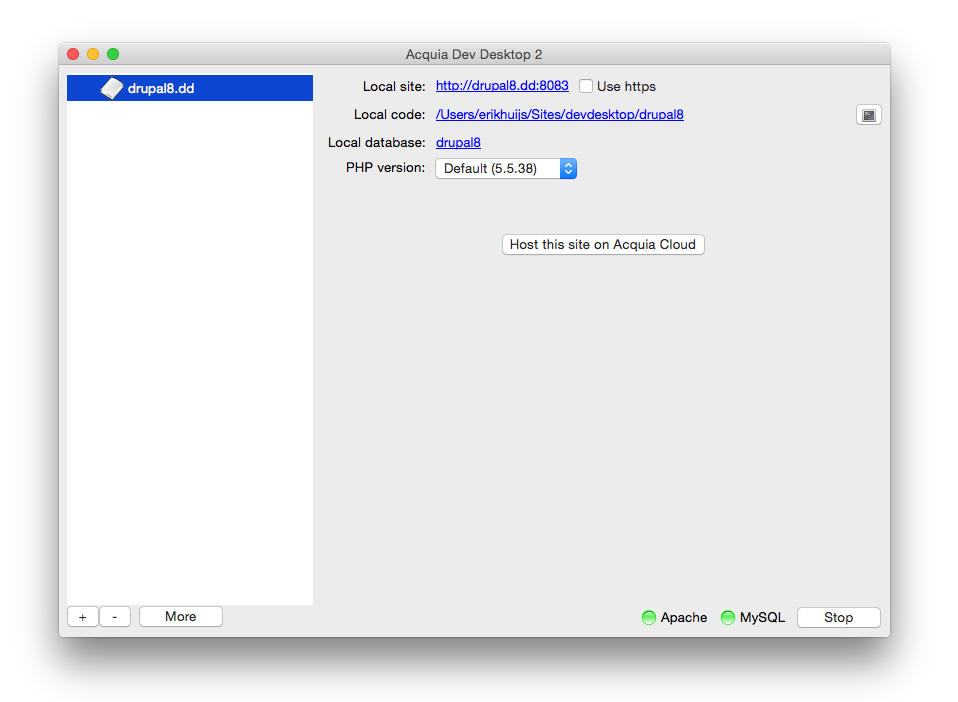
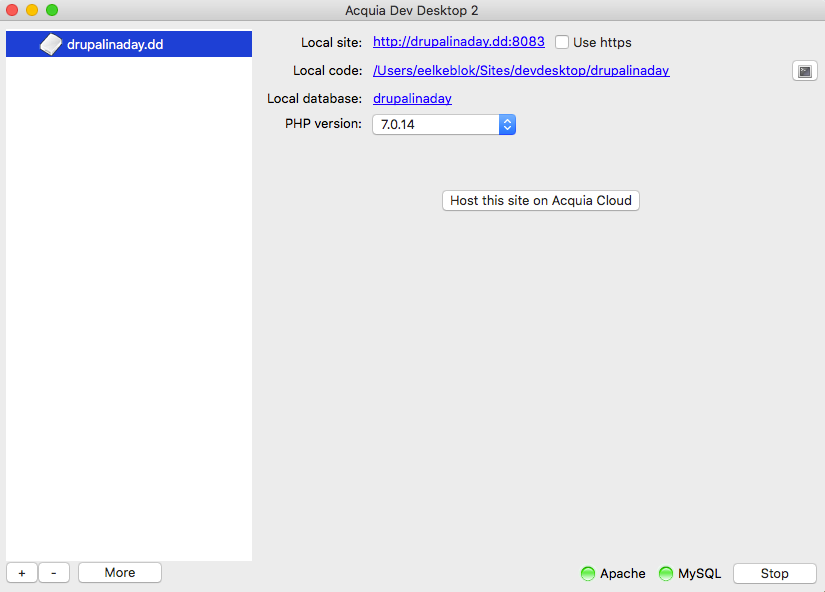
O3 Change step 2 of the installation to use a downloaded codebase

Changed region(s): [[0.0, 0.0, 1.0, 1.0], [0.5152, 0.3041, 0.7879, 0.3649], [0.9697, 0.0912, 1.0, 0.152]]

diff --git a/nl/source/devenv/o3-installation-manual.md b/nl/source/devenv/o3-installation-manual.md
@@ -100,9 +100,9 @@ Pak iets te drinken terwijl je computer druk bezig is met installeren.
 
 ![Voortgangsscherm tijdens installatie.](../_static/images/devenv/installation-manual/image18.png)
 
-Het is zover! De Dev Desktop is op je computer geïnstalleerd. Klik op *Finish*
-om de Dev Desktop op te starten en ga door met het tweede deel van de
-installatiehandleiding om je eigen Drupal 8 site te installeren.
+Het is zover! De Dev Desktop is op je computer geïnstalleerd. Klik het vinkje 
+**uit** waar *Launch Acquia Dev Desktop after clicking Finish* bij staat, want we 
+gaan eerst Drupal zelf downloaden.
 
 ![Laatste scherm installatie Dev
 Desktop.](../_static/images/devenv/installation-manual/image15.png)
@@ -110,39 +110,70 @@ Desktop.](../_static/images/devenv/installation-manual/image15.png)
 ### Windows
 TODO.
 
-Drupal-distributie kiezen
------------------------
-Nu de webserver en database op je systeem geïnstalleerd zijn, volgen de
-stappen om een Drupal 8 website te installeren op je systeem. De screenshots
-tonen de Mac-versie, maar de stappen zijn in principe gelijk voor de Windows-
-versie. Als je de Dev Desktop nog niet opgestart had, doe dat dan nu. Je krijgt 
-het volgende scherm te zien:
+Drupal downloaden en klaarmaken voor installatie
+-----------------
+Nu de webserver en database op je systeem geïnstalleerd zijn, moeten we de 
+bestanden van Drupal op je computer gaan zetten. De Dev Desktop biedt de 
+mogelijkheid om dit voor je te doen voor de standaard versie van Drupal en voor
+een aantal populaire *distributies*. Voor *Drupal in a Day* maken we gebruik van 
+een aparte distributie. Deze gaan we nu downloaden.
+
+Ga naar [https://github.com/drupalinaday/did-training-distro](https://github.com/drupalinaday/did-training-distro).
+
+TODO. Localiseren van de laatste versie op Github of misschien Drupal in a 
+Day-site.
+ 
+Download de laatste versie in zip-formaat en pak deze uit. Verplaats de 
+uitgepakte naar een locatie waar de webserver ze kan vinden, in een aparte 
+directory. Als je gebruik maakt van de Acquia Dev Desktop en de standaard 
+locaties hebt gebruikt dan zal dat bijvoorbeeld zijn: 
+
+* /Users/(jouw account)/Sites/devdesktop/drupalinaday op Mac
+* C:\\???\devdesktop\drupalinaday op Windows
+
+Start nu de Acquia Dev Desktop. 
+
+* Op de Mac kun je deze vinden in de map *Applicaties* (*Applications*) onder 
+*DevDesktop*.
+* Op Windows kun je deze vinden ...
+
+***Maak je geen gebruik van de Dev Desktop**, zorg er dan voor dat je een lokale 
+website hebt die de directory waar de Drupal-bestanden staan als web root 
+gebruikt. Maak ook een database aan voor gebruik met de Drupal-installatie. Je 
+kunt dan verder gaan met de stap [Drupal installeren](#drupal-installeren).*
+
+De screenshots tonen de Mac-versie, maar de stappen zijn in principe gelijk voor 
+de Windows-versie. Nadat je de Dev Desktop hebt gestart krijg je het volgende 
+scherm te zien:
 
 ![Scherm voor eerste keer starten Dev
 Desktop.](../_static/images/devenv/installation-manual/image16.png)
 
-Omdat we nog geen Drupal 8 website hebben, kiezen we hier voor de eerste optie
-om deze te installeren; *Start from scratch, I don't have an existing Drupal site*.
+Kies voor de tweede optie; *Start with an existing Drupal site located on my 
+computer*.
 
-![](../_static/images/devenv/installation-manual/image7.png)
+In het scherm dat je te zien krijgt klik je rechts naast het veld *Local 
+codebase folder* op *Change...*. Je kiest nu de locatie uit waar je de 
+Drupal-bestanden hebt neergezet. Dev Desktop vult nu een aantal velden in aan de 
+hand van je keuze.
 
-In de lijst die je vervolgens te zien krijgt, kies je *Drupal 8* en klik je op
-*install*.
-
-Het kan zijn de de versie bij jou anders is dan hier afgebeeld, dat is niet erg.
+* Kies als PHP-versie 7.0. Voor de PHP-versie zie je drie getallen, bijvoorbeeld 
+  7.0.14. Het laatste getal, de zogenaamde patch versie, maakt hierbij niet 
+  zoveel uit. Is er geen 7.0-variant beschikbaar, dan is een hogere versie 
+  (bijv. 7.1 of 7.2) ook goed.
+* Controleer dat bij Database staat *Create a new database*.
 
 ![](../_static/images/devenv/installation-manual/image20.png)
 
-Geef je nieuwe Drupal website een naam. Je kan 'drupal-8-2-6' laten staan, maar
-kan hier ook je eigen site naam opgeven. (Dit mag je ook voor de database doen,
-maar let op dat je alleen gewone tekens gebruikt en geen spaties). Klik op
-*Finish* als je klaar bent om verder te gaan.
+Klik op OK. Het kan zijn dat je Mac vraagt om je wachtwoord. Dit is omdat het 
+hosts bestand aangepast moet worden, zodat je browser de lokale Drupal-website 
+kan vinden.
+
+Het is gelukt! De website staat klaar voor jou om ermee aan de slag te
+gaan. Klik op het linkje bij *Local site* om aan het laatste onderdeel van de
+installatie te beginnen.
 
 ![](../_static/images/devenv/installation-manual/image14.png)
-
-Yes! Het is gelukt! De website staat klaar voor jou om ermee aan de slag te
-gaan. Klik op het linkje bij *Local site* om aan het laatste onderdeel van de
-installatie te beginnen&hellip;
 
 De installatie - deel 3
 -----------------------
